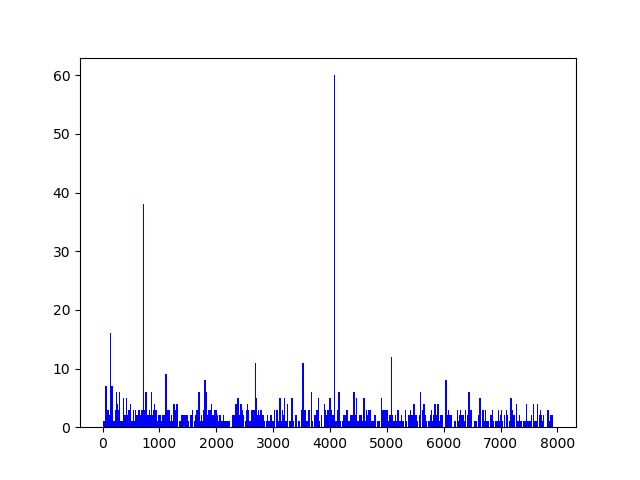
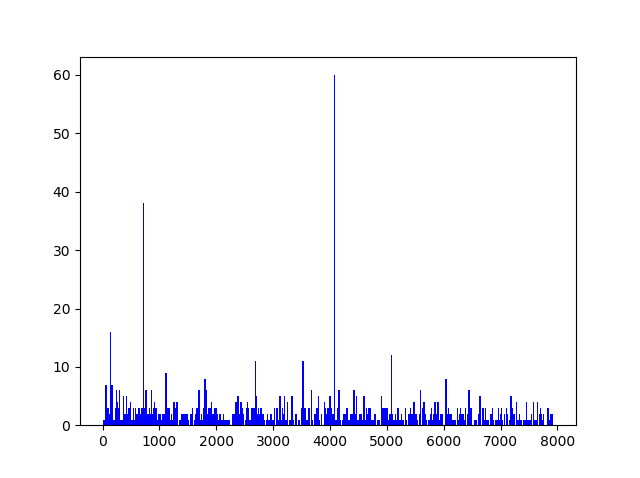
2689 and 6163 cycles found

diff --git a/collatz.go b/collatz.go
@@ -42,8 +42,8 @@ func check_p(pp *big.Int) {
 	time.Sleep(time.Millisecond * amt)
 	// fmt.Println("exploring ", pp) // useless when parallel run
 
-	int_n_start := 150000001         // should be the odd number >= 1
-	n_limit := big.NewInt(152000000)
+	int_n_start := 188000001         // should be the odd number >= 1
+	n_limit := big.NewInt(190000000)
 
 	int_n_start = int_n_start/6
 	int_n_start = int_n_start*6+1
@@ -115,7 +115,7 @@ func main() {
 	}
 	// fmt.Println(primes)
 	
-	primes_to_check := []int64{5, 7, 29, 41, 79, 89, 107, 109, 127, 149, 157, 179, 191, 199, 211, 307, 311, 317, 337, 359, 397, 419, 433, 439, 443, 463, 479, 487, 521, 557, 569, 631, 643, 647, 653, 733, 773, 811, 823, 827, 853, 887, 929, 941, 977, 997, 1009, 1019, 1021, 1033, 1061, 1093, 1123, 1181, 1187, 1193, 1217, 1223, 1249, 1279, 1283, 1289, 1291, 1301, 1327, 1367, 1373, 1433, 1471, 1483, 1489, 1499, 1523, 1531, 1549, 1559, 1567, 1597, 1601, 1607, 1609, 1613, 1619, 1627, 1657, 1667, 1669, 1699, 1733, 1747, 1753, 1787, 1811, 1831, 1861, 1867, 1933, 1949, 1987, 1993, 2003, 2029, 2039, 2081, 2087, 2089, 2113, 2137, 2141, 2143, 2161, 2207, 2237, 2239, 2243, 2251, 2267, 2269, 2273, 2281, 2341, 2351, 2357, 2389, 2399, 2411, 2423, 2441, 2503, 2539, 2591, 2633, 2657, 2689, 2753, 2777, 2819, 2837, 2851, 2857, 2861, 2887, 2917, 2927, 2953, 2969, 2971, 3011, 3023, 3037, 3041, 3049, 3079, 3083, 3109, 3209, 3251, 3257, 3259, 3271, 3307, 3313, 3323, 3347, 3359, 3371, 3373, 3389, 3413, 3433, 3449, 3467, 3469, 3491, 3547, 3557, 3571, 3581, 3583, 3607, 3613, 3617, 3659, 3677, 3701, 3709, 3719, 3733, 3761, 3793, 3821, 3823, 3833, 3847, 3851, 3863, 3877, 3881, 3889, 4021, 4057, 4079, 4091, 4093, 4153, 4201, 4211, 4217, 4219, 4271, 4283, 4327, 4349, 4357, 4421, 4441, 4451, 4483, 4493, 4513, 4523, 4567, 4603, 4651, 4657, 4663, 4673, 4729, 4733, 4783, 4787, 4799, 4813, 4817, 4877, 4889, 4903, 4919, 4937, 4969, 4993, 5039, 5087, 5101, 5107, 5113, 5227, 5231, 5237, 5279, 5303, 5309, 5323, 5381, 5419, 5477, 5519, 5557, 5563, 5569, 5581, 5623, 5647, 5653, 5659, 5689, 5693, 5711, 5717, 5737, 5743, 5783, 5807, 5813, 5821, 5857, 5881, 5897, 5923, 5939, 5987, 6007, 6011, 6037, 6047, 6067, 6073, 6113, 6121, 6143, 6151, 6163, 6173, 6199, 6217, 6221, 6229, 6263, 6311, 6353, 6367, 6373, 6397, 6521, 6529, 6581, 6599, 6607, 6653, 6659, 6661, 6673, 6679, 6701, 6719, 6737, 6763, 6781, 6793, 6803, 6823, 6827, 6829, 6857, 6871, 6883, 6899, 6959, 6967, 6977, 6991, 7027, 7043, 7057, 7079, 7127, 7129, 7151, 7193, 7219, 7253, 7297, 7309, 7333, 7351, 7393, 7417, 7481, 7487, 7489, 7517, 7523, 7541, 7549, 7559, 7561, 7573, 7589, 7603, 7639, 7643, 7669, 7673, 7687, 7703, 7741, 7753, 7789, 7793, 7817, 7829, 7853, 7873, 7879}
+	primes_to_check := []int64{5, 7, 29, 41, 79, 89, 107, 109, 127, 149, 157, 179, 191, 199, 211, 307, 311, 317, 337, 359, 397, 419, 433, 439, 443, 463, 479, 487, 521, 557, 569, 631, 643, 647, 653, 733, 773, 811, 823, 827, 853, 887, 929, 941, 977, 997, 1009, 1019, 1021, 1033, 1061, 1093, 1123, 1181, 1187, 1193, 1217, 1223, 1249, 1279, 1283, 1289, 1291, 1301, 1327, 1367, 1373, 1433, 1471, 1483, 1489, 1499, 1523, 1531, 1549, 1559, 1567, 1597, 1601, 1607, 1609, 1613, 1619, 1627, 1657, 1667, 1669, 1699, 1733, 1747, 1753, 1787, 1811, 1831, 1861, 1867, 1933, 1949, 1987, 1993, 2003, 2029, 2039, 2081, 2087, 2089, 2113, 2137, 2141, 2143, 2161, 2207, 2237, 2239, 2243, 2251, 2267, 2269, 2273, 2281, 2341, 2351, 2357, 2389, 2399, 2411, 2423, 2441, 2503, 2539, 2591, 2633, 2657, 2753, 2777, 2819, 2837, 2851, 2857, 2861, 2887, 2917, 2927, 2953, 2969, 2971, 3011, 3023, 3037, 3041, 3049, 3079, 3083, 3109, 3209, 3251, 3257, 3259, 3271, 3307, 3313, 3323, 3347, 3359, 3371, 3373, 3389, 3413, 3433, 3449, 3467, 3469, 3491, 3547, 3557, 3571, 3581, 3583, 3607, 3613, 3617, 3659, 3677, 3701, 3709, 3719, 3733, 3761, 3793, 3821, 3823, 3833, 3847, 3851, 3863, 3877, 3881, 3889, 4021, 4057, 4079, 4091, 4093, 4153, 4201, 4211, 4217, 4219, 4271, 4283, 4327, 4349, 4357, 4421, 4441, 4451, 4483, 4493, 4513, 4523, 4567, 4603, 4651, 4657, 4663, 4673, 4729, 4733, 4783, 4787, 4799, 4813, 4817, 4877, 4889, 4903, 4919, 4937, 4969, 4993, 5039, 5087, 5101, 5107, 5113, 5227, 5231, 5237, 5279, 5303, 5309, 5323, 5381, 5419, 5477, 5519, 5557, 5563, 5569, 5581, 5623, 5647, 5653, 5659, 5689, 5693, 5711, 5717, 5737, 5743, 5783, 5807, 5813, 5857, 5881, 5897, 5923, 5939, 5987, 6007, 6011, 6037, 6047, 6067, 6073, 6113, 6121, 6143, 6151, 6173, 6199, 6217, 6221, 6229, 6263, 6311, 6353, 6367, 6373, 6397, 6521, 6529, 6581, 6599, 6607, 6653, 6659, 6661, 6673, 6679, 6701, 6719, 6737, 6763, 6781, 6793, 6803, 6823, 6827, 6829, 6857, 6871, 6883, 6899, 6959, 6967, 6977, 6991, 7027, 7043, 7057, 7079, 7127, 7129, 7151, 7193, 7219, 7253, 7297, 7309, 7333, 7351, 7393, 7417, 7481, 7487, 7489, 7517, 7523, 7541, 7549, 7559, 7561, 7573, 7589, 7603, 7639, 7643, 7669, 7673, 7687, 7703, 7741, 7753, 7789, 7793, 7817, 7829, 7853, 7873, 7879}
 	fmt.Printf("check size = %d\n", len(primes_to_check))
 	for q := 0; q < len(primes_to_check); q++ {
 		qq := *(big.NewInt(primes_to_check[q]))
